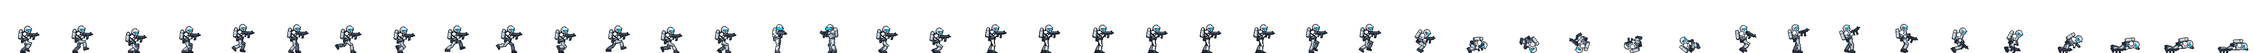
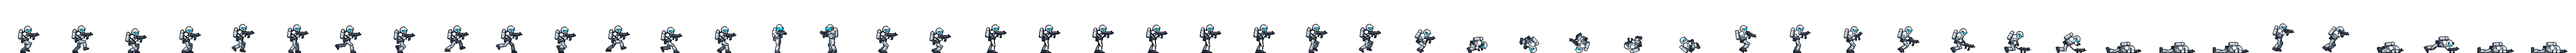
feat: arte de caída mortal y morir nuevo (T3, F010-AC09)

Changed region(s): [[0.0, 0.4722, 1.0, 1.0]]

diff --git a/specs/features/010-caida-mortal/tasks.md b/specs/features/010-caida-mortal/tasks.md
@@ -11,7 +11,7 @@ updated: 2026-11-04
 
 - [x] T1 Parámetros `long_fall_height` y `lethal_fall_height` en `PlayerMovementConfig` (cubre: F010-AC01, F010-AC05)
 - [x] T2 Muerte por altura en el motor: `DeathCause.FALL`, `FallSeverity`, altura congelada al morir y `reset_fall()` (cubre: F010-AC01, F010-AC02, F010-AC03, F010-AC04, F010-AC17)
-- [ ] T3 Arte nuevo en `elyon.png` y `elyon_frames.tres` (cubre: F010-AC09)
+- [x] T3 Arte nuevo en `elyon.png` y `elyon_frames.tres` (cubre: F010-AC09)
 - [ ] T4 `PlayerAnimation` elige `caer_largo` y `morir_caida`, con `holds_last_frame()` (cubre: F010-AC05, F010-AC06, F010-AC07, F010-AC08)
 - [ ] T5 `Player` aplica lo anterior y suma la línea `caída` al overlay; `World` llama a `reset_fall()` al cruzar de sala (cubre: F010-AC06, F010-AC08, F010-AC17)
 - [ ] T6 Sala de prueba con caída de dos pisos sobre piso común (cubre: F010-AC11)
